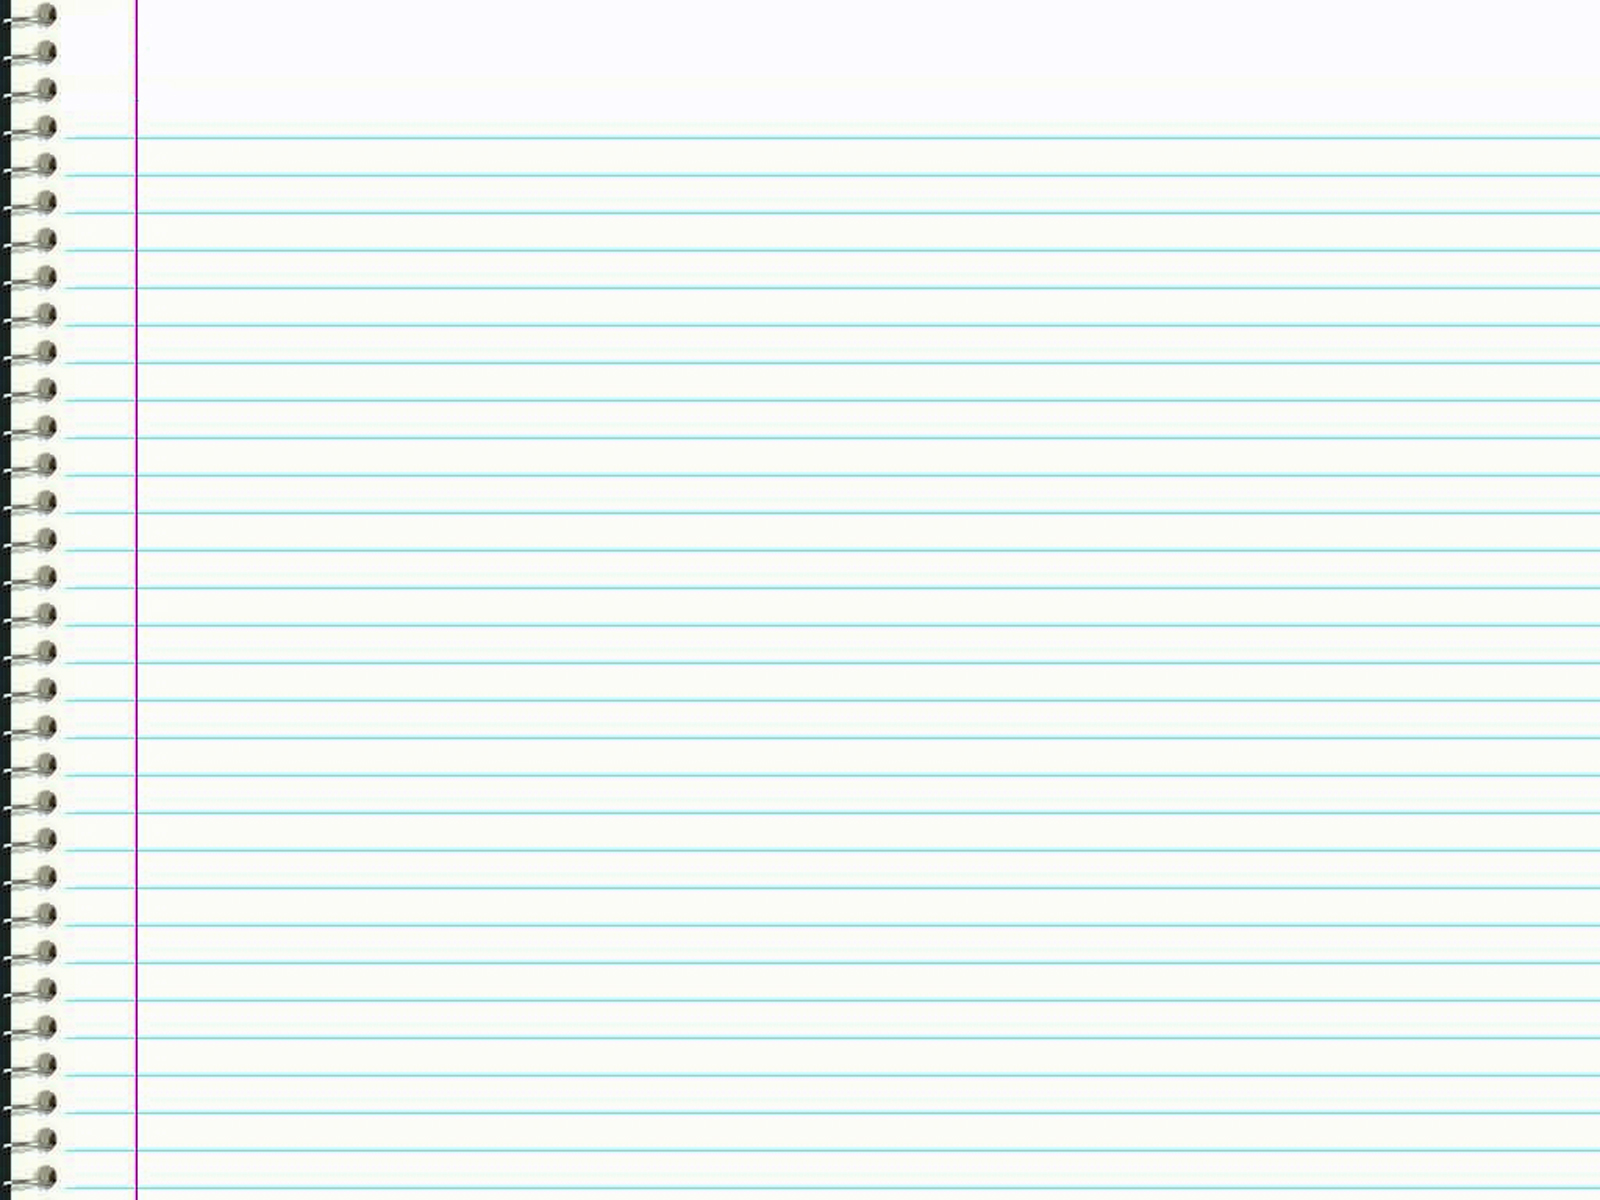
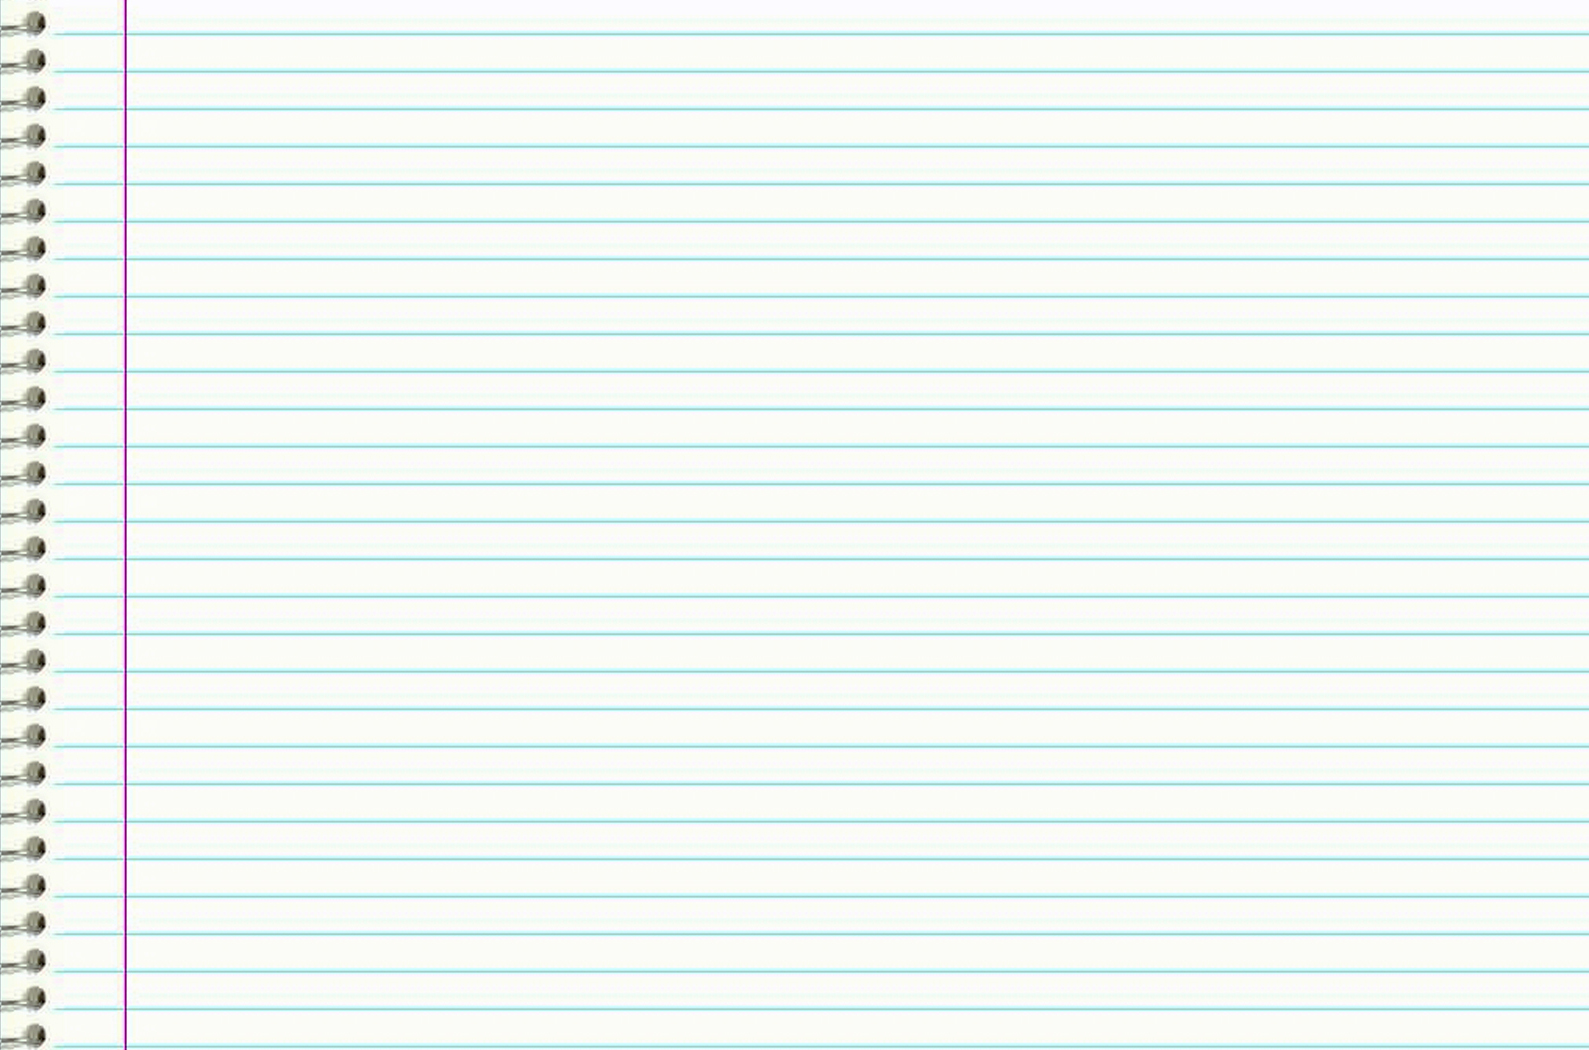
responsive

Changed region(s): [[0.0, 0.0, 1.0, 1.0]]

diff --git a/assets/styles/todos.css b/assets/styles/todos.css
@@ -5,7 +5,7 @@
 body {
   font-family: roboto;
 background: url(../images/paper.jpg);
-background-position: center;
+background-position: top center;
 background-size: cover;
 font-size: 62.5%;
 }
@@ -42,7 +42,8 @@ background: linear-gradient(90deg, rgba(0,0,0,1) 0%, rgba(101,101,101,0.99483543
 	text-transform: uppercase;
 	font-size: 2.0rem;
 	font-weight: normal;
-  font-family: 'Libre Baskerville', serif;
+  font-family: 'Handlee', cursive;
+  /* font-family: 'Libre Baskerville', serif; */
 }
 
 ul {
@@ -117,4 +118,94 @@ input:focus {
 .completed {
 	color: gray;
 	text-decoration: line-through;
+}
+
+/* media breakpoints */
+
+@media (max-width: 1200px) {
+  main {
+    width: 70%;
+  }
+  h1 {
+    font-size: 3.5rem;
+  }
+}
+
+@media (max-width: 950px) {
+  main {
+    width: 75%;
+    height: 60vh;
+  }
+  h1 {
+    font-size: 3.2rem;
+    padding-top: 0;
+  }
+}
+
+@media (max-width: 800px) {
+  main {
+    width: 85%;
+    height: 65vh;
+  }
+  h1 {
+    font-size: 3.0rem;
+    padding-bottom: 5%;
+  }
+  h2 {
+    font-size: 1.7rem;
+  }
+  input {
+    font-size: 1.5rem;
+  }
+}
+
+@media (max-width: 650px) {
+  main {
+    width: 90%;
+    height: 70vh;
+  }
+  h1 {
+    font-size: 2.7rem;
+  }
+  h2 {
+    font-size: 1.5rem;
+  }
+  input {
+    font-size: 1.3rem;
+  }
+}
+
+@media (max-width: 550px) {
+  main {
+    width: 95%;
+  }
+  h1 {
+    font-size: 2.3rem;
+  }
+  h2 {
+    font-size: 1.3rem;
+  }
+  input {
+    font-size: 1.2rem;
+  }
+}
+
+@media (max-width: 650px) {
+  main {
+    width: 95%;
+    height: 85vh;
+    margin-top: -10%;
+  }
+  h1 {
+    font-size: 3.8rem;
+    text-align: center;
+    line-height: 1;
+    padding-bottom: 20%;
+  }
+  h2 {
+    font-size: 1.3rem;
+  }
+  input {
+    font-size: 1.2rem;
+  }
 }
